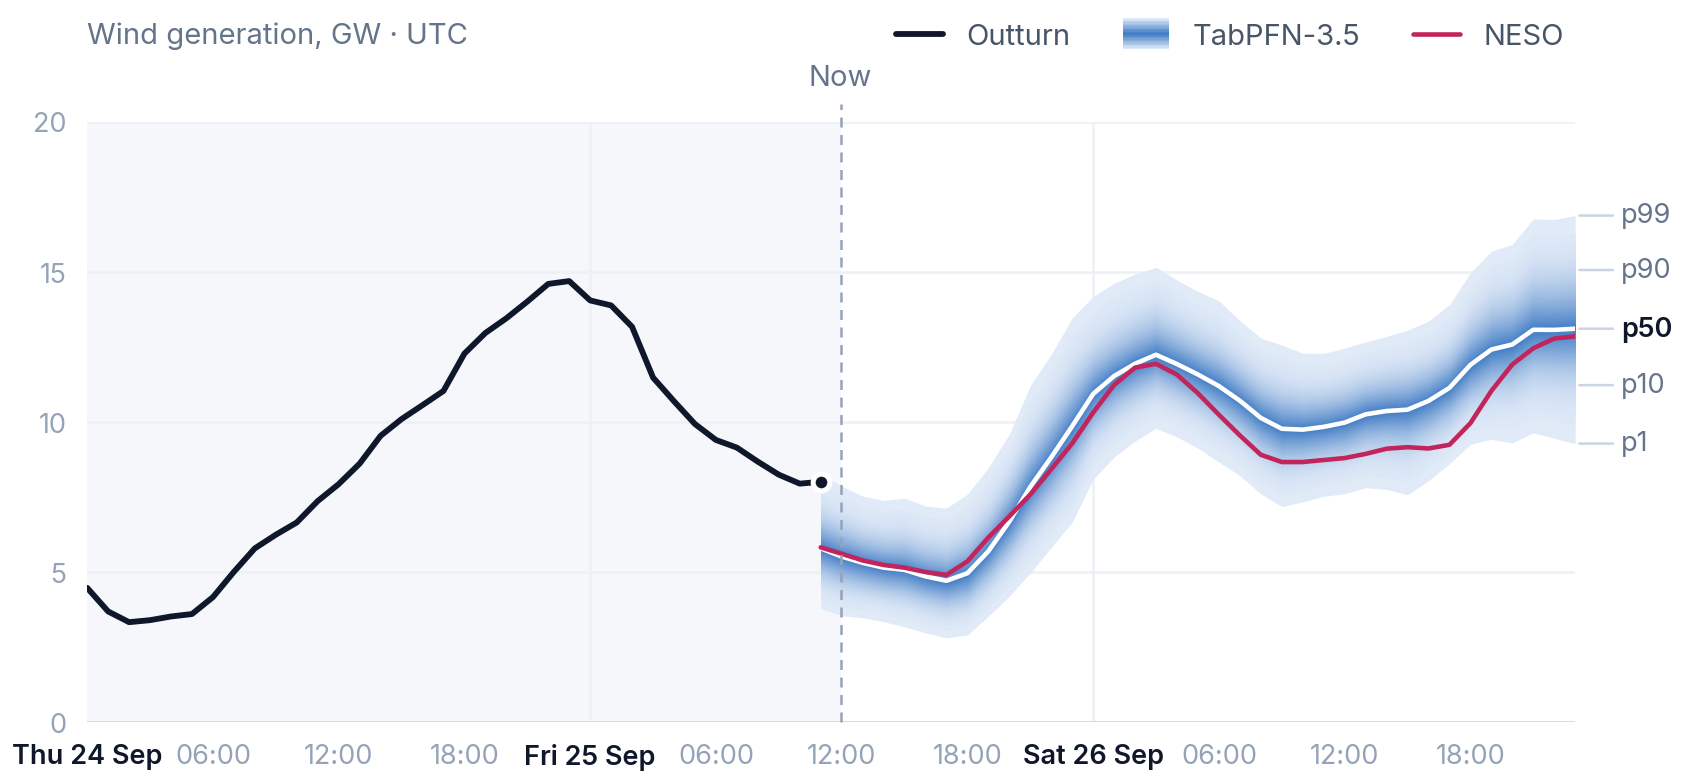
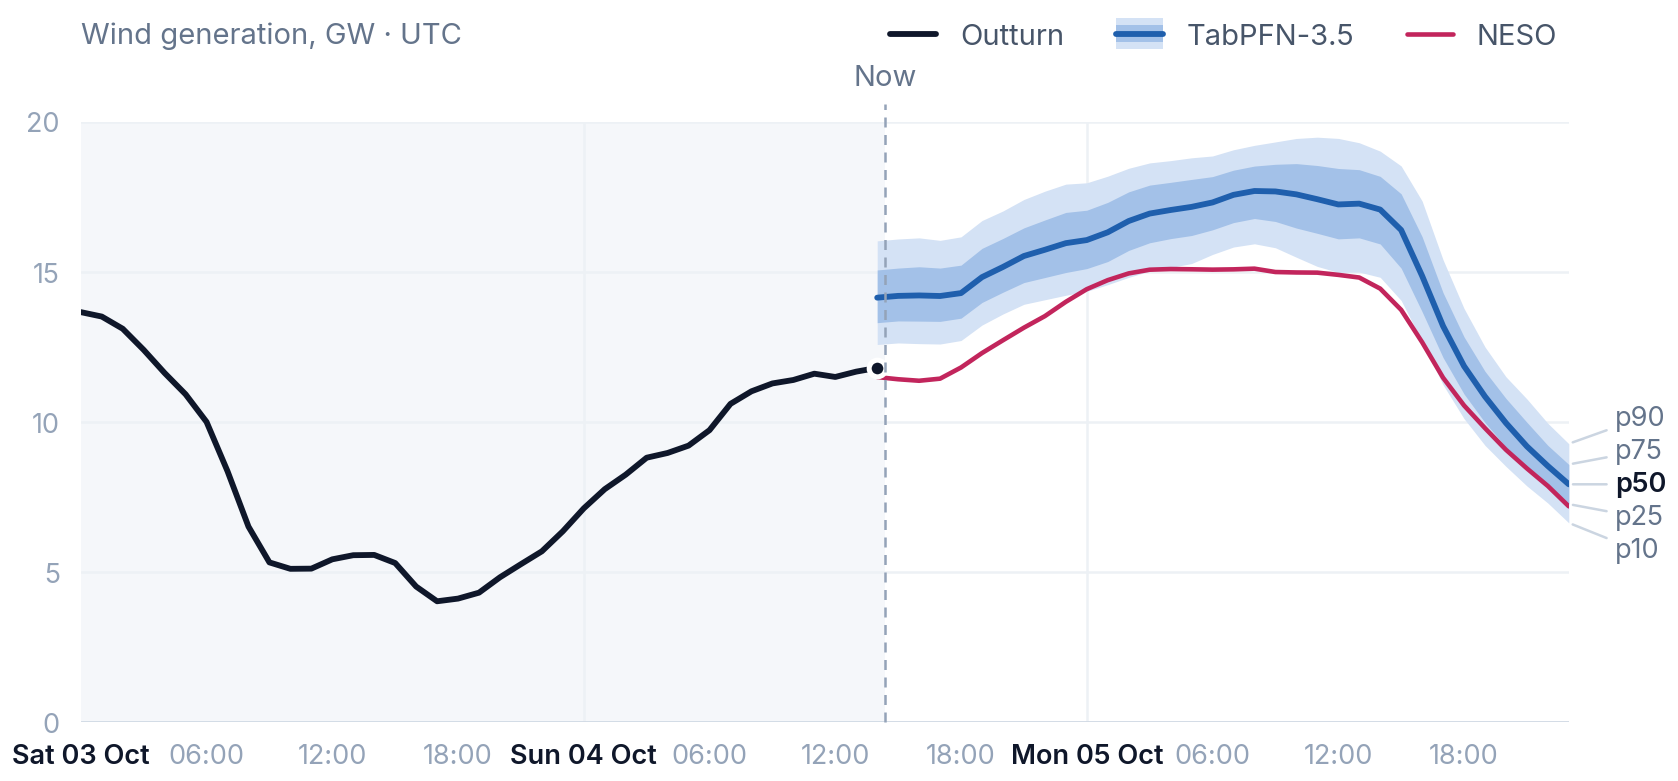
Match the README still to the banded chart

diff --git a/notebooks/05_live.py b/notebooks/05_live.py
@@ -17,8 +17,8 @@ def _(mo):
     # 05 · Live
 
     A still of the live page's chart (`explorer.py`), drawn the same way: outturn since
-    yesterday, then the most recent forecasts from TabPFN-3.5 (its full distribution, p1–p99)
-    and NESO, from the last settled hour to the end of tomorrow. Reads
+    yesterday, then the most recent forecasts from TabPFN-3.5 (its p10–p90 and p25–p75 bands
+    and median) and NESO, from the last settled hour to the end of tomorrow. Reads
     `notebooks/public/live.csv` and pulls outturn from Elexon.
 
     Produces the README figure `live.png`.
@@ -57,14 +57,14 @@ def _(live, now, np, observed, pd, plt, sources, start, style):
     hours = pd.date_range(start, min(start + pd.Timedelta(hours=71), ahead.index[-1]), freq="h")
     forecast = ahead.drop(columns="issue_time").reindex(hours) / 1e3
     incumbent = forecast.windfor
-    ceiling = max(10, np.ceil(np.nanmax([forecast.q99.max(), incumbent.max(), observed.max() / 1e3]) / 5) * 5)
+    ceiling = max(10, np.ceil(np.nanmax([forecast.q90.max(), incumbent.max(), observed.max() / 1e3]) / 5) * 5)
 
     with style.paper():
         figure, ax = plt.subplots(figsize=(6.4, 2.6))
         ax.axvspan(start, now, color=_p["past"], lw=0, zorder=0)
-        for _lower in range(1, 50):
-            ax.fill_between(hours, forecast[f"q{_lower}"], forecast[f"q{100 - _lower}"], color=style.FAN(_lower / 50), lw=0)
-        ax.plot(forecast.q50, color=_p["bg"])
+        for _lower, _upper in ((10, 90), (25, 75)):
+            ax.fill_between(hours, forecast[f"q{_lower}"], forecast[f"q{_upper}"], color=_p[f"p{_lower}_p{_upper}"], lw=0)
+        ax.plot(forecast.q50, color=_p["median"], lw=1.4)
         ax.plot(incumbent, color=_p["incumbent"])
         ax.plot(observed / 1e3, color=_p["outturn"], lw=1.4)
         ax.plot(joined, observed.iloc[-1] / 1e3, "o", ms=4, color=_p["outturn"], mec=_p["bg"], mew=1.2)
@@ -73,7 +73,7 @@ def _(live, now, np, observed, pd, plt, sources, start, style):
         ax.text(now, ceiling * 1.05, "Now", ha="center", va="bottom", color=_p["muted"])
 
         _last = forecast.q50.last_valid_index()
-        _labelled = [99, 90, 50, 10, 1]
+        _labelled = [90, 75, 50, 25, 10]
         _edges = [forecast.at[_last, f"q{_q}"] for _q in _labelled]
         _gap = ceiling * 0.055
         _ys = list(_edges)

diff --git a/src/windpfn/style.py b/src/windpfn/style.py
@@ -10,7 +10,6 @@ from __future__ import annotations
 from pathlib import Path
 
 import matplotlib as mpl
-import numpy as np
 from matplotlib import font_manager
 
 PALETTE = {
@@ -38,9 +37,11 @@ PAPER = {  # notebooks/explorer.py's palette, so the README figures match the li
     "outturn": "#0F172A",
     "incumbent": "#C2255C",
     "forecast": "#3E7AC4",
+    "median": "#1F5FAD",
+    "p10_p90": "#D4E2F5",
+    "p25_p75": "#A3C1E8",
+    "gap": "#E4EDF9",
 }
-
-FAN = mpl.colors.LinearSegmentedColormap.from_list("fan", ["#E4EDF9", PAPER["forecast"]])  # p0/p100 -> p50
 
 PX = 0.75  # CSS px -> pt
 
@@ -141,17 +142,19 @@ def paper():
 
 
 class Fan:
-    """Legend handle for the predictive distribution: the page's blue swatch, darkest at the median."""
+    """Legend handle for the predictive distribution: the page's p10–p90 and p25–p75 bands and median."""
 
 
 class _FanHandler:
     def legend_artist(self, legend, handle, fontsize, box):
-        middle, half = box.height / 2, box.height * 0.75
-        for depth in np.linspace(0.05, 1, 12):
+        middle, half = box.ydescent + box.height / 2, box.height * 0.75
+        for key, height in (("p10_p90", half), ("p25_p75", half * 0.55)):
             box.add_artist(mpl.patches.Rectangle(
-                (box.xdescent, box.ydescent + middle - half * (1.05 - depth)), box.width,
-                2 * half * (1.05 - depth), facecolor=FAN(depth), lw=0,
+                (box.xdescent, middle - height), box.width, 2 * height, facecolor=PAPER[key], lw=0,
             ))
+        box.add_artist(mpl.lines.Line2D(
+            [box.xdescent, box.xdescent + box.width], [middle, middle], color=PAPER["median"], lw=1.4,
+        ))
         return box
 
 

diff --git a/notebooks/03_test.py b/notebooks/03_test.py
@@ -118,7 +118,7 @@ def _(TABPFN, forecasts, plt, sources, style):
 
     with style.paper():
         figure_miss, miss_ax = plt.subplots(figsize=(PAPER_WIDTH, 2.4))
-        miss_ax.fill_between(windfor.index, tabpfn, windfor, color=style.FAN(0), lw=0)
+        miss_ax.fill_between(windfor.index, tabpfn, windfor, color=_p["gap"], lw=0)
         miss_ax.plot(windfor, color=_p["incumbent"])
         miss_ax.plot(tabpfn, color=_p["forecast"])
         miss_ax.axhline(0, color=_p["rule"], lw=0.6)

diff --git a/notebooks/explorer.py b/notebooks/explorer.py
@@ -254,7 +254,7 @@ def _(P, np, pd):
         def Xs(index) -> np.ndarray:
             return left + ((index - start) / pd.Timedelta("1h")).to_numpy() * step
 
-        peak = np.nanmax([forecast.q99.max(), incumbent.generation.max(), observed.max(), 1])
+        peak = np.nanmax([forecast.q90.max(), incumbent.generation.max(), observed.max(), 1])
         ceiling = max(10 * GW, np.ceil(peak / (5 * GW)) * 5 * GW)
 
         def Y(v):

diff --git a/README.md b/README.md
@@ -81,7 +81,7 @@ predicted = model.predict(features[test], output_type="quantiles", quantiles=qua
 
 A [GitHub Action](.github/workflows/live.yml) runs twenty minutes after each of NESO's eight daily updates. `windpfn-live` reads the full history in `data/history/`, pulls everything published since, and issues TabPFN-3.5's p1–p99 for every hour the update covers. The forecast is committed to `notebooks/public/live.csv`, so the git log records each one before its outturn, and the [live page](https://csomers3.github.io/tabPFN4wind/) ([notebooks/explorer.py](notebooks/explorer.py)) is redeployed. The page pulls outturn from Elexon on load.
 
-![A still of the live page: outturn since yesterday, then TabPFN-3.5's p1–p99 distribution and NESO's forecast from the last settled hour to the end of tomorrow](notebooks/live.png)
+![A still of the live page: outturn since yesterday, then TabPFN-3.5's median with its p10–p90 and p25–p75 bands, and NESO's forecast from the last settled hour to the end of tomorrow](notebooks/live.png)
 
 ## Data
 
